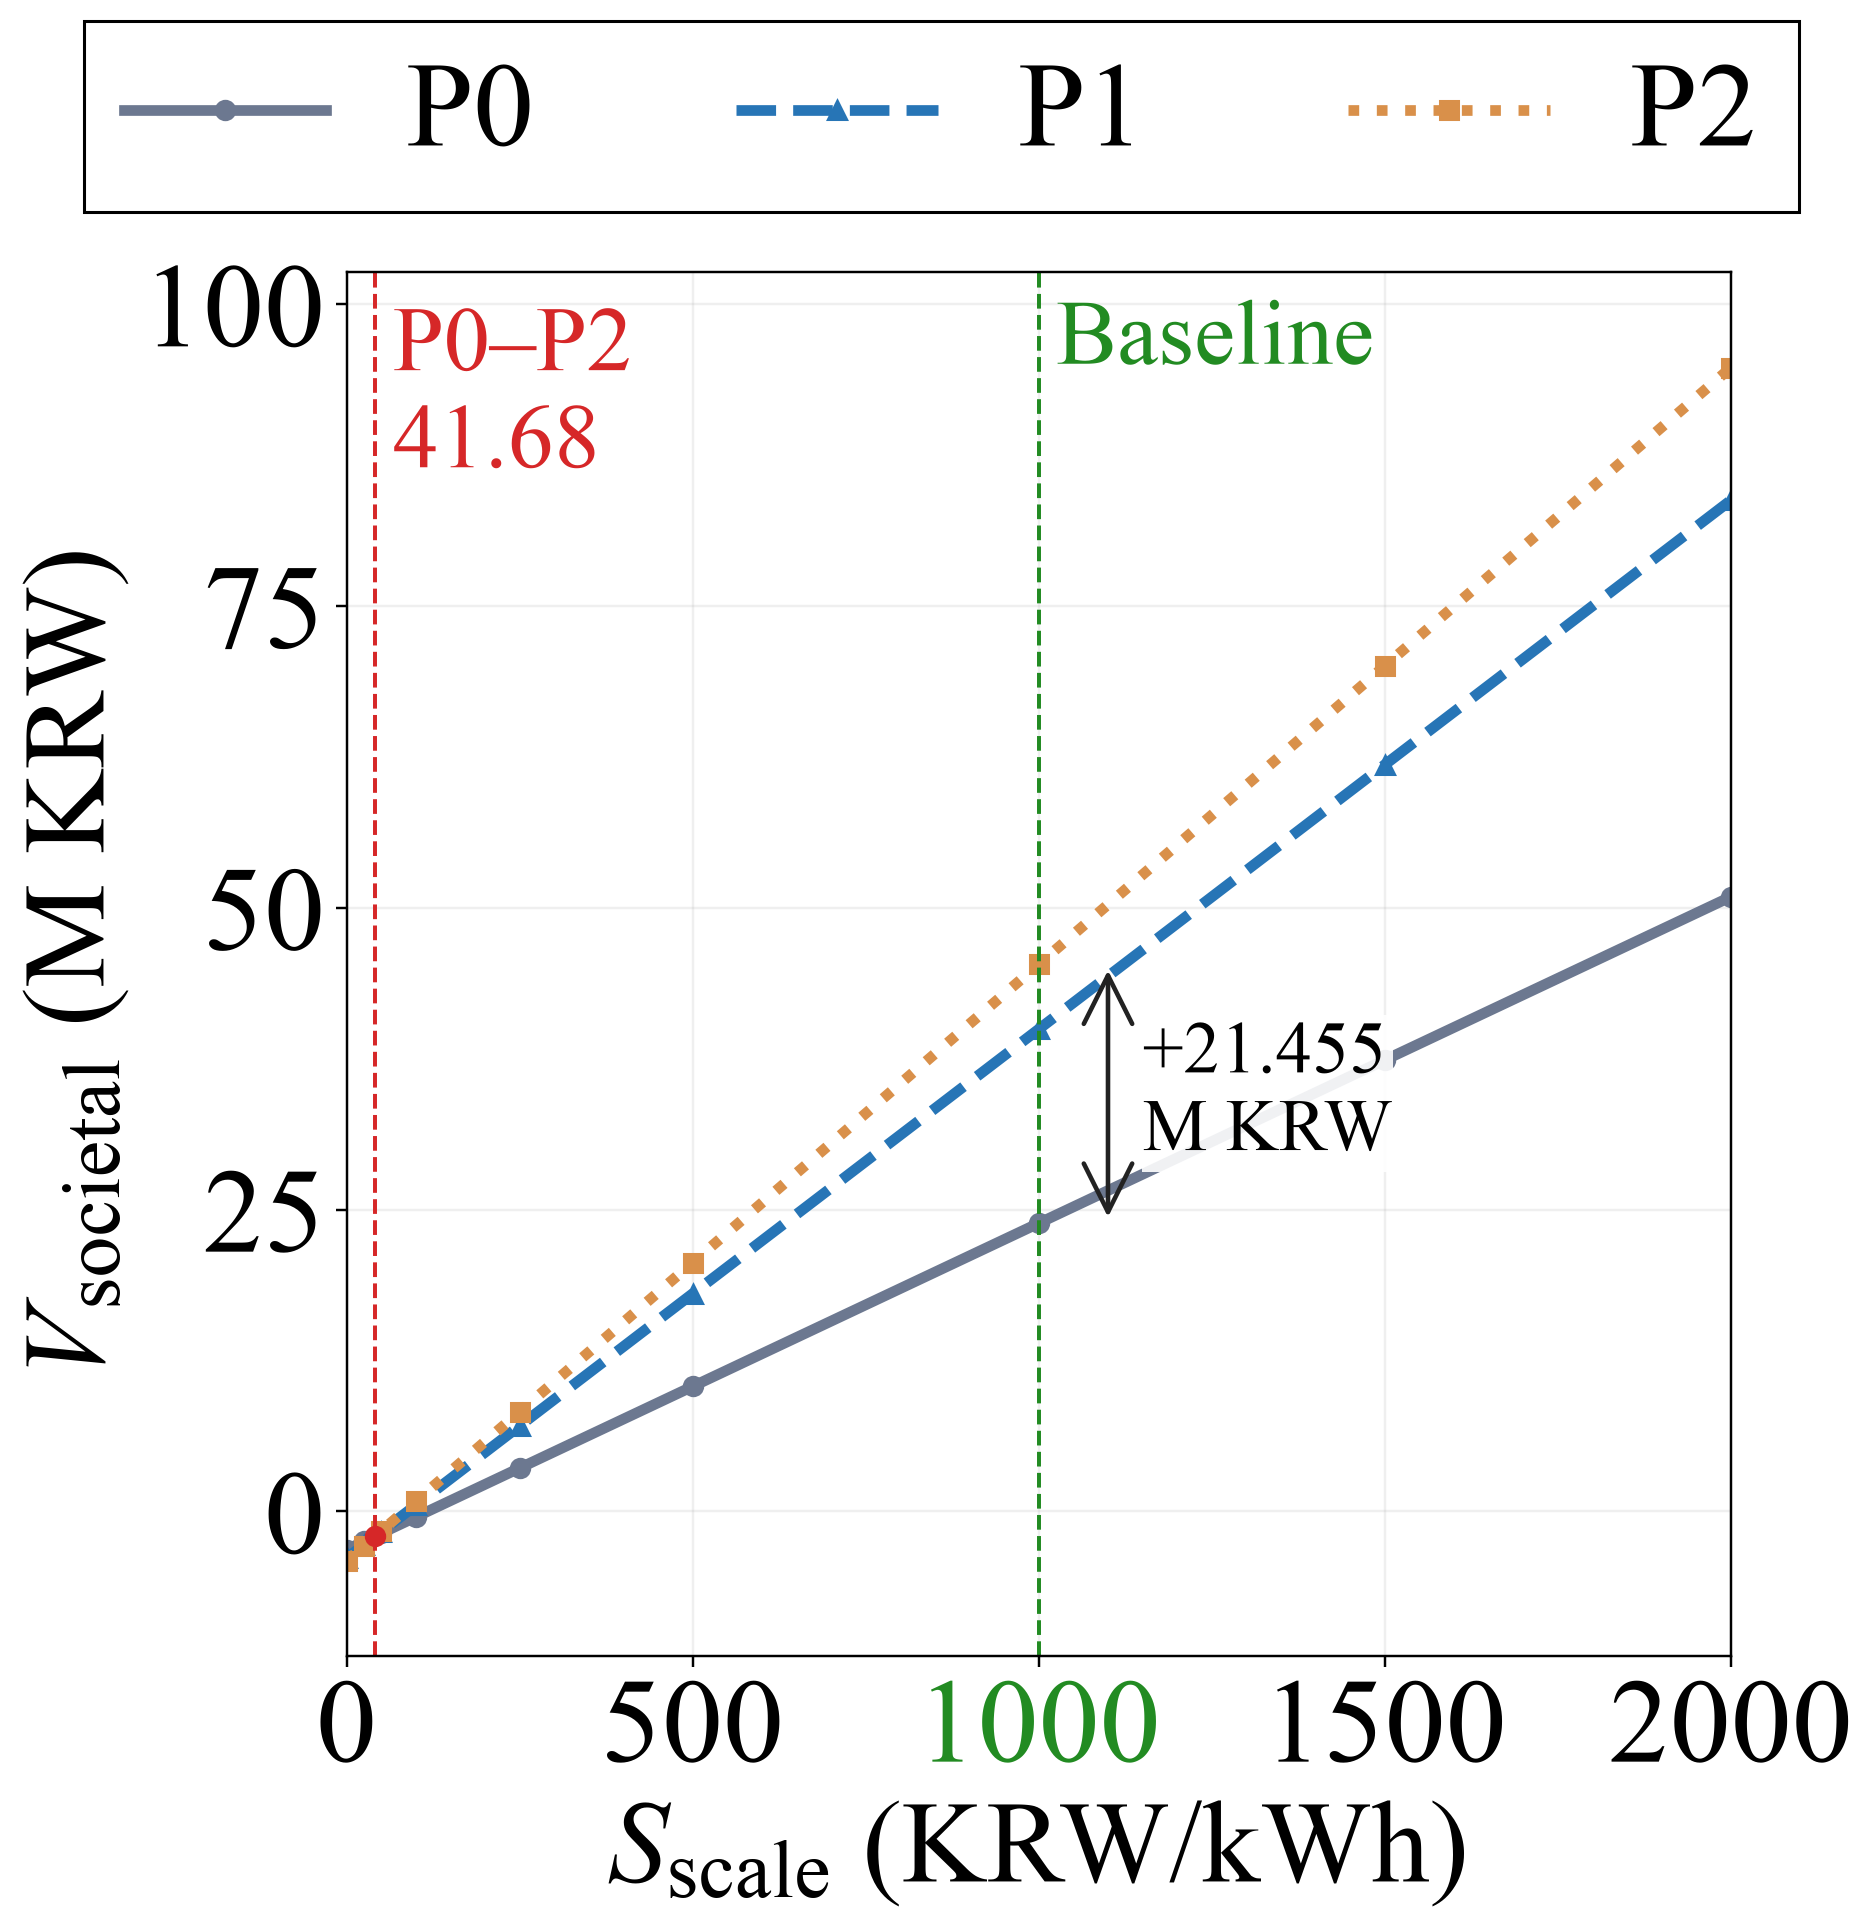
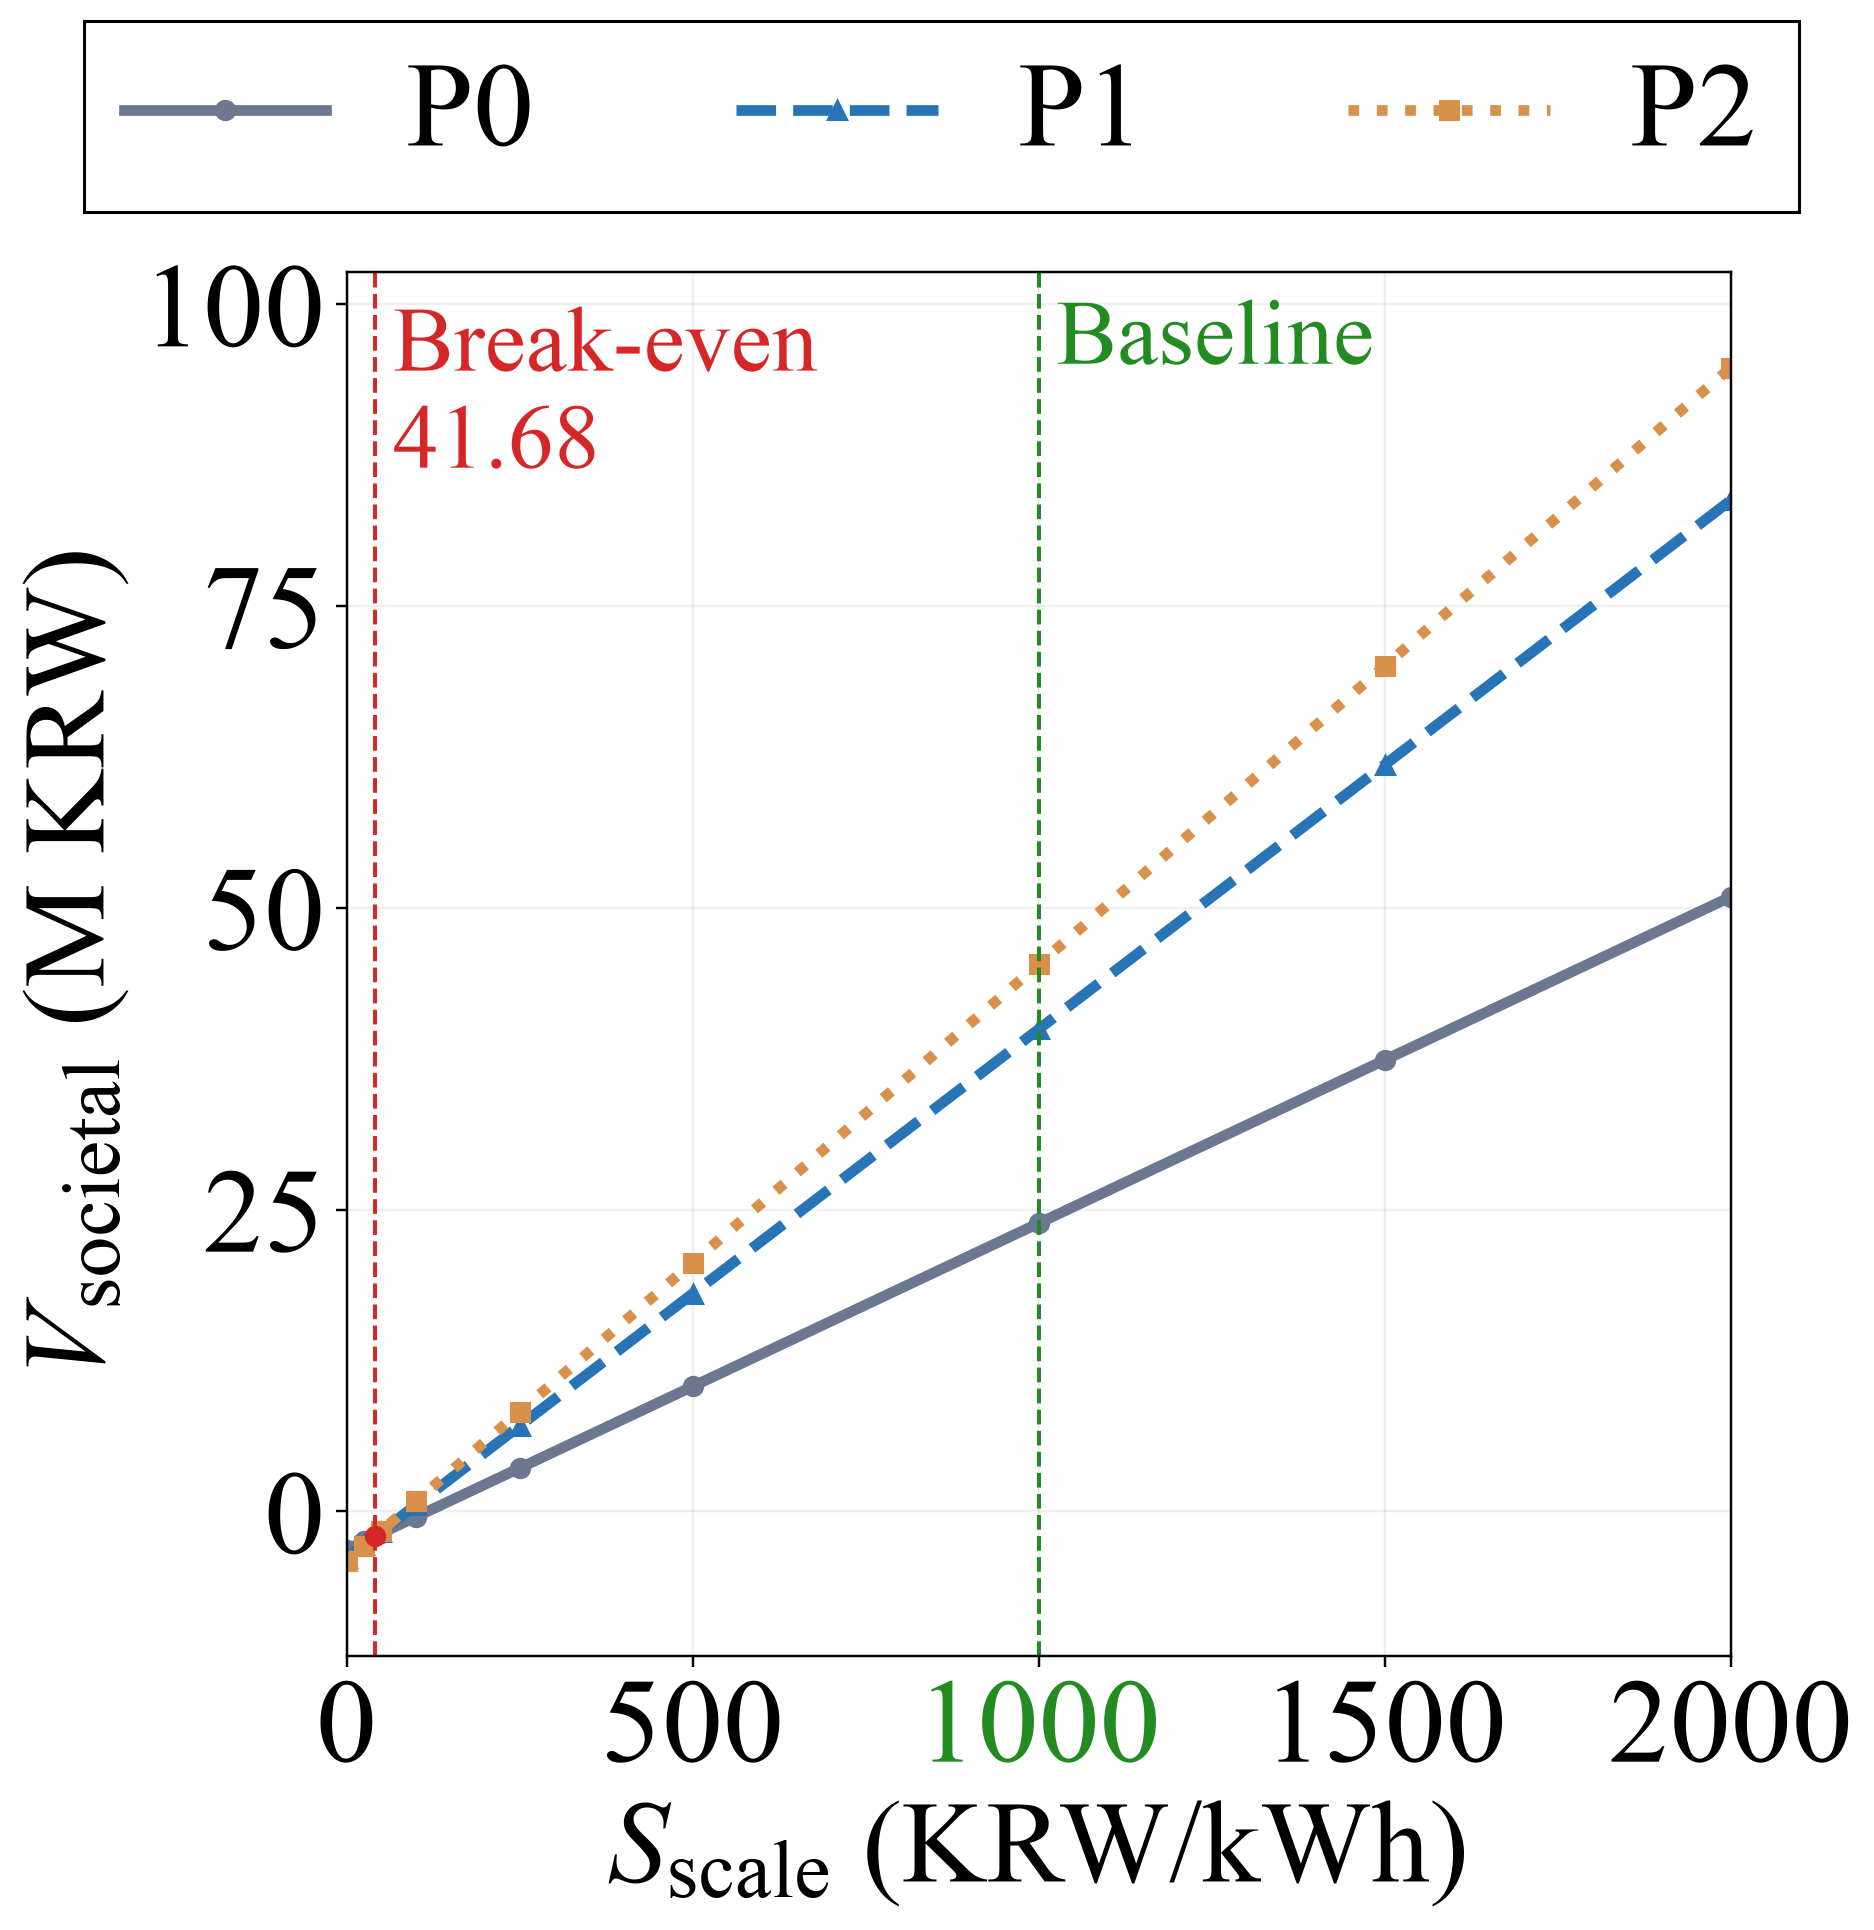
Simplify Figure 11 crossover annotations

Changed region(s): [[0.588, 0.4974, 0.7428, 0.6218], [0.2166, 0.1554, 0.4333, 0.2176]]

diff --git a/p1_additional_analysis.py b/p1_additional_analysis.py
@@ -174,7 +174,7 @@ def main() -> None:
         cross_value = societal(p0, break_even) / 1e6
         axis.plot(break_even_scale, cross_value, "o", color="#d62728", markersize=6, zorder=5)
         axis.text(
-            break_even_scale + 25, 0.98, f"P0–P2\n{break_even_scale:.2f}",
+            break_even_scale + 25, 0.98, f"Break-even\n{break_even_scale:.2f}",
             transform=axis.get_xaxis_transform(), va="top", color="#d62728",
             fontsize=ANNOTATION_SIZE,
         )
@@ -182,19 +182,6 @@ def main() -> None:
             S_SCALE_BASELINE + 25, 0.98, "Baseline",
             transform=axis.get_xaxis_transform(), va="top", color="#228b22",
             fontsize=ANNOTATION_SIZE,
-        )
-        baseline_p0 = societal(p0, VOLL_KRW_PER_KWH) / 1e6
-        baseline_proposed = societal(proposed, VOLL_KRW_PER_KWH) / 1e6
-        improvement = baseline_proposed - baseline_p0
-        axis.annotate(
-            "", xy=(1100, baseline_proposed), xytext=(1100, baseline_p0),
-            arrowprops={"arrowstyle": "<->", "color": "#222222", "lw": 1.5},
-        )
-        axis.text(
-            1150, (baseline_p0 + baseline_proposed) / 2,
-            f"+{improvement:.3f}\nM KRW", va="center",
-            fontsize=ANNOTATION_SIZE * 0.8,
-            bbox={"facecolor": "white", "edgecolor": "none", "alpha": 0.9, "pad": 0.15},
         )
         axis.set_xlabel(r"$S_{\mathrm{scale}}$ (KRW/kWh)")
         axis.set_ylabel(r"$V_{\mathrm{societal}}$ (M KRW)")
